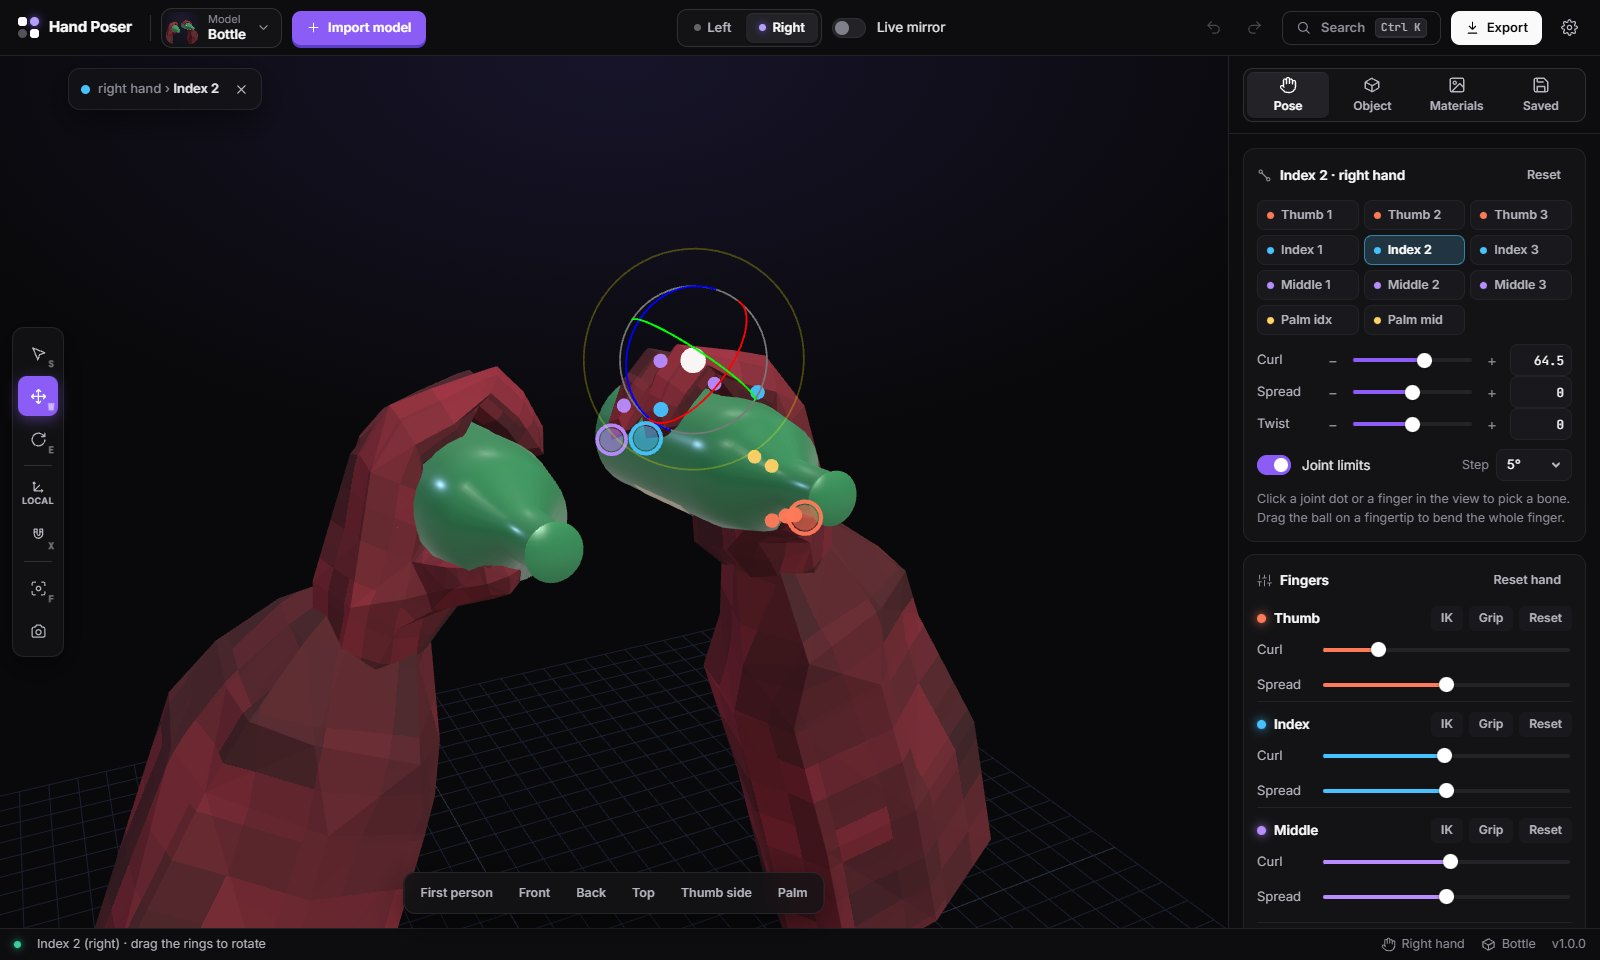
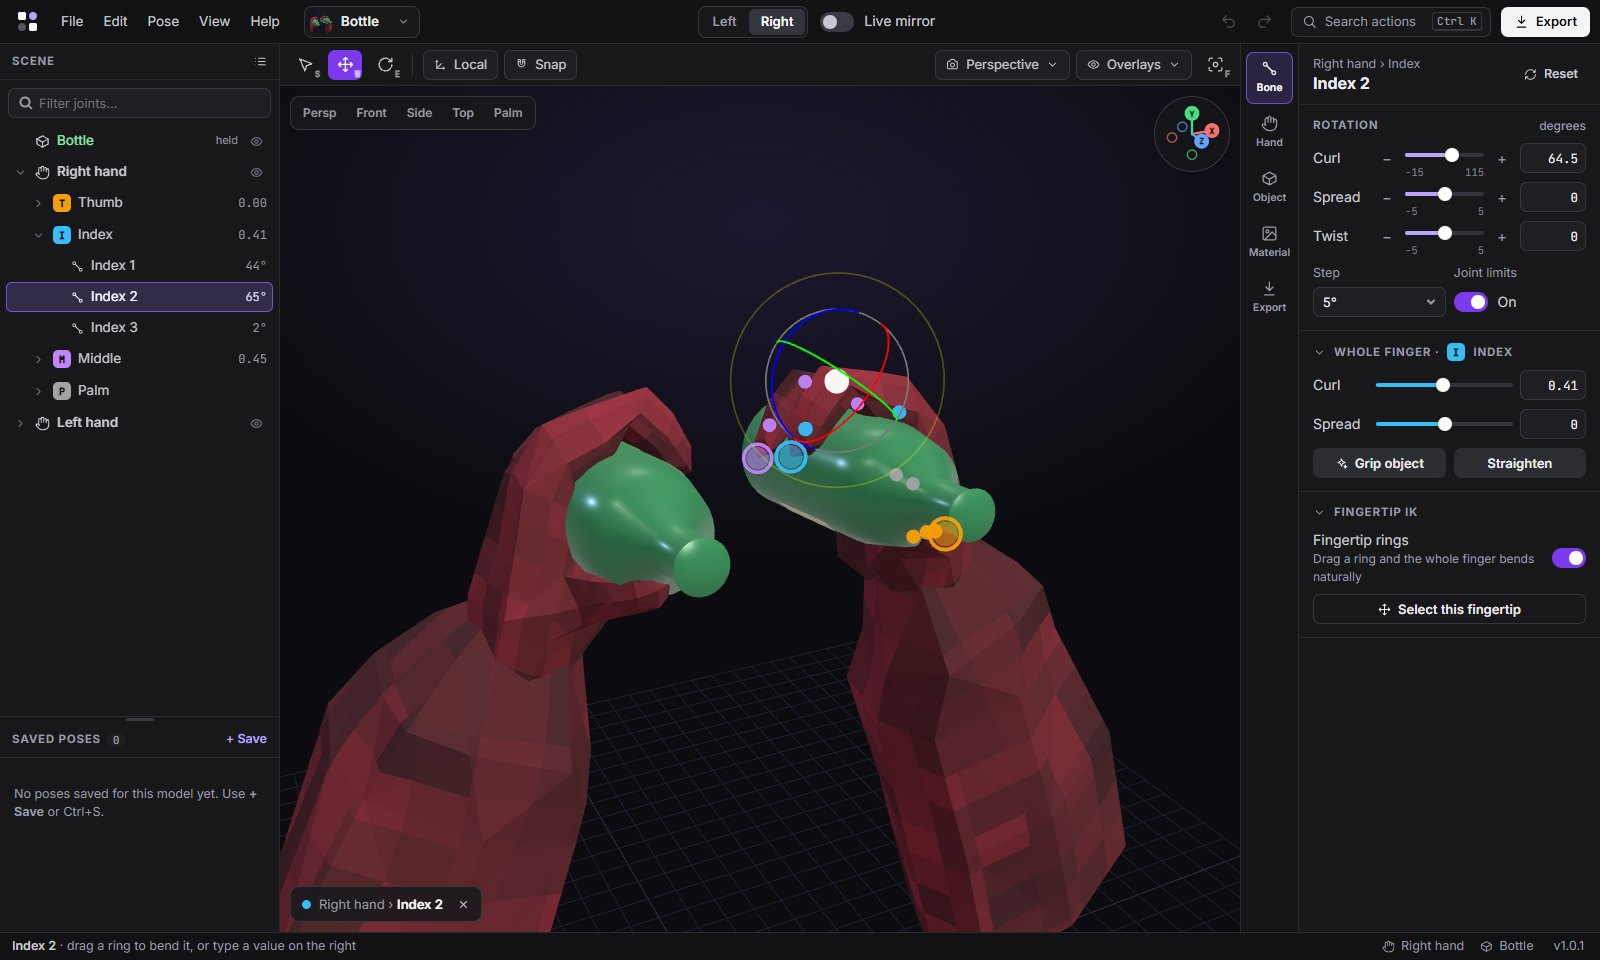
README: Studio screenshots, update notice now in the status bar

diff --git a/README.md b/README.md
@@ -11,7 +11,7 @@ Get the installer from the **[latest release](https://github.com/stridefr/hand-p
 - **Windows:** `Hand-Poser-Setup-x.y.z.exe`
 - **Linux:** `Hand-Poser-x.y.z.AppImage`
 
-The app **updates itself**. It checks GitHub when it starts and every few hours, then downloads new versions in the background. When an update is ready, a pill appears in the title bar. Click it to restart into the new version, or the update installs the next time you close the app.
+The app **updates itself**. It checks GitHub when it starts and every few hours, then downloads new versions in the background. When an update is ready, a green pill appears in the status bar at the bottom. Click it to restart into the new version, or the update installs the next time you close the app.
 
 > The installer isn't code-signed yet, so Windows SmartScreen may say "Windows protected your PC". Click **More info → Run anyway**.
 
@@ -42,7 +42,7 @@ The app **updates itself**. It checks GitHub when it starts and every few hours,
 - **Export:** pose JSON for both hands, or Unity hand-bone text for the right hand.
 - **App features:** Ctrl+K command search, undo/redo with an Undo button on every big change, copy/paste of joint values, keyboard shortcuts (F6 moves between panels), accessibility settings, and screenshots.
 
-![Home screen](docs/home.jpg)
+![Model library](docs/home.jpg)
 
 ## Develop
 
